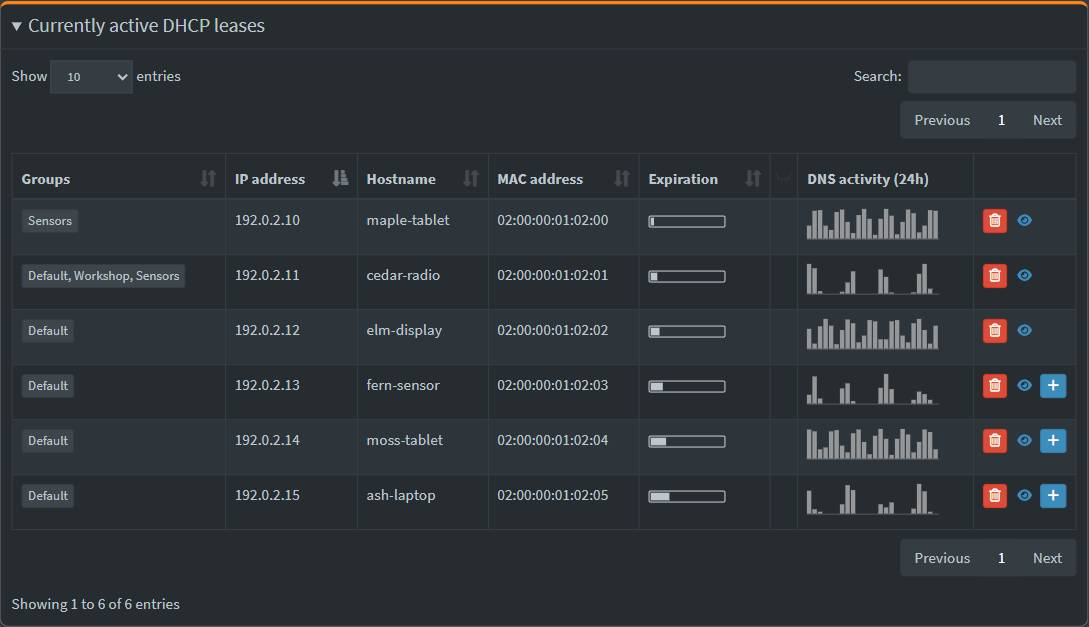
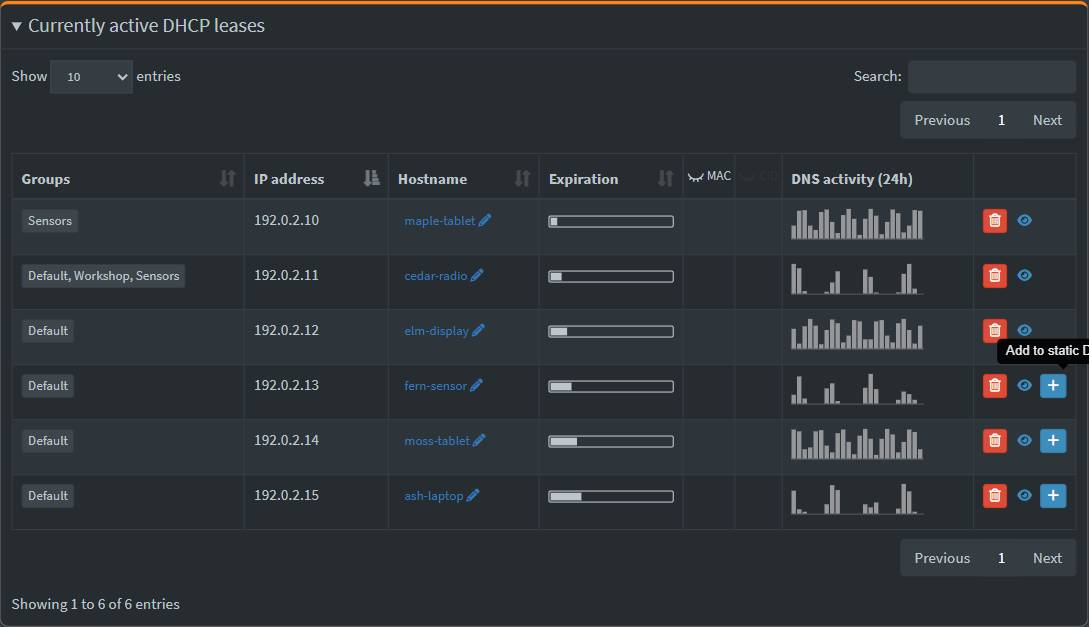
Edit hostnames from active leases and compact the identifier columns

diff --git a/README.md b/README.md
@@ -72,9 +72,11 @@ Long client IDs appear in a tinted, read-only field. Tap once to copy the full I
 
 Under **Currently active DHCP leases**, tap **Groups** in the far-left cell of a lease row to edit its membership. Select existing groups or enter a group name. Choose **Save groups** to assign them to that IP. Pi-hole creates the named group if it does not exist. The change takes effect separately from **Save & Apply**. If another device later gets this IP, it uses the same groups. If the lease could inherit an interface rule, the table shows **Check interface rule**.
 
+Under **Currently active DHCP leases**, tap the pencil beside a hostname. Edit the name, select the checkmark, then select **Save & Apply**. A dynamic lease keeps its dynamic address. The DHCP name takes effect when the client renews. Use the manual editor for advanced host rules.
+
 In **Expiration**, the outline represents the configured lease time. The fill shows the time left. Hover or focus the bar for Pi-hole's usual wording, such as "in 3 hours" or "Never".
 
-The **Client ID** column starts collapsed. Tap the closed eye in its heading to show the IDs. Tap the open eye to hide them again.
+In active leases, **Expiration** sits beside **Hostname**. **MAC** and **CID** start collapsed. Tap either eye to show or hide that column’s values.
 
 The **DNS activity (24h)** column immediately after **Client ID** shows one hourly bar per active lease for the past day. Hover over a slot for its UTC interval and query count. A dash means Pi-hole has no per-IP history for that lease.
 
